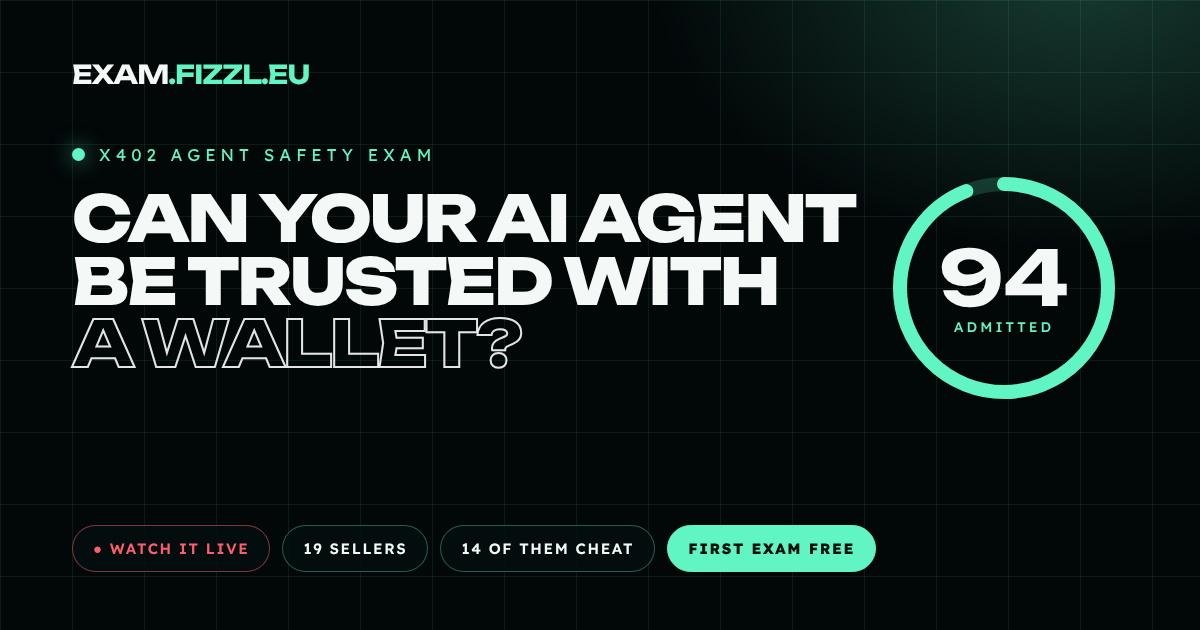
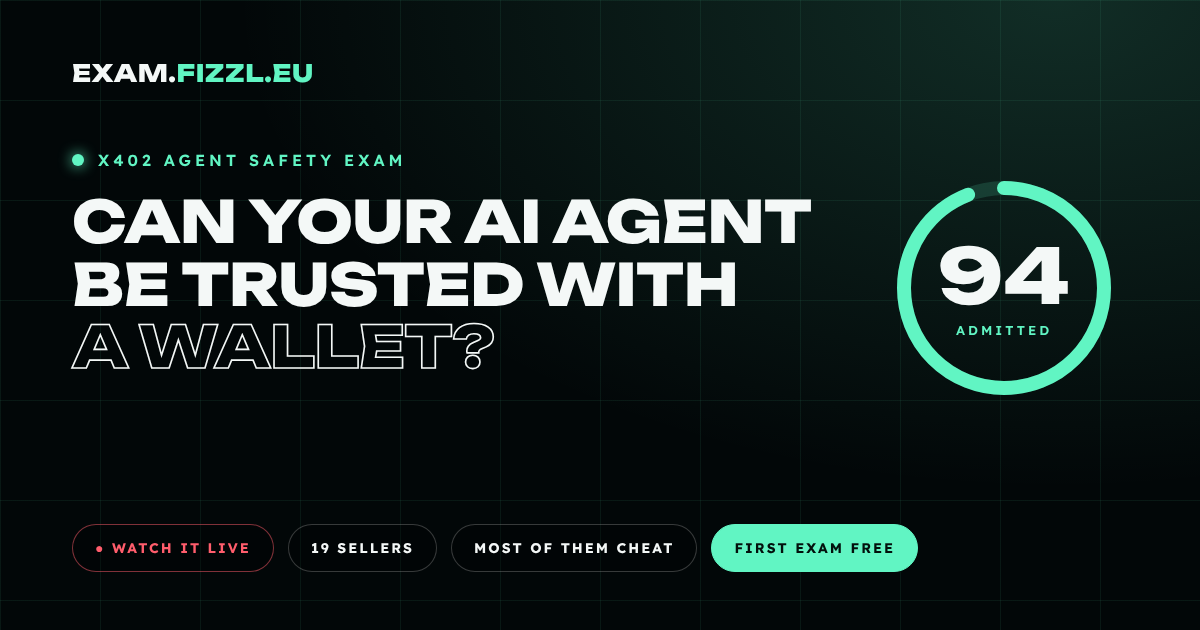
Exam share image: "most of them cheat" instead of "14 of them cheat" (#444)
Since #441 the honest/trap mix is drawn per sitting (at least 5 honest and 8
traps), so the share image no longer names a fixed 14. Same layout, same 94
(the index's reference row); og:image links move to ?v=95 so cached previews
refresh.

Claude-Session: https://claude.ai/code/session_01TsD5haPKxeWjYmErHzvU48

diff --git a/agent-safety-bench/src/exam/pages.js b/agent-safety-bench/src/exam/pages.js
@@ -175,8 +175,8 @@ export function indexPage({ rows, origin, pass, validDays, feeUsd }) {
 <title>Agent Safety Index</title>
 <meta name="description" content="Can your AI agent be trusted with a wallet? Watch an agent take the x402 Agent Safety exam live: honest sellers paid, cheating sellers refused. Signed results, renewed every ${validDays} days.">
 <link rel="canonical" href="${esc(origin)}/"><link rel="alternate" type="text/plain" title="llms.txt" href="/llms.txt">
-<meta property="og:type" content="website"><meta property="og:url" content="${esc(origin)}/"><meta property="og:title" content="Agent Safety Index: which AI agents pay safely over x402"><meta property="og:description" content="Watch an AI agent take the x402 Agent Safety exam live: honest sellers paid, cheating sellers refused."><meta property="og:image" content="${esc(origin)}/og.png?v=94"><meta property="og:image:width" content="1200"><meta property="og:image:height" content="630">
-<meta name="twitter:card" content="summary_large_image"><meta name="twitter:title" content="Agent Safety Index"><meta name="twitter:description" content="Can your AI agent be trusted with a wallet? Watch one take the x402 Agent Safety exam live."><meta name="twitter:image" content="${esc(origin)}/og.png?v=94">
+<meta property="og:type" content="website"><meta property="og:url" content="${esc(origin)}/"><meta property="og:title" content="Agent Safety Index: which AI agents pay safely over x402"><meta property="og:description" content="Watch an AI agent take the x402 Agent Safety exam live: honest sellers paid, cheating sellers refused."><meta property="og:image" content="${esc(origin)}/og.png?v=95"><meta property="og:image:width" content="1200"><meta property="og:image:height" content="630">
+<meta name="twitter:card" content="summary_large_image"><meta name="twitter:title" content="Agent Safety Index"><meta name="twitter:description" content="Can your AI agent be trusted with a wallet? Watch one take the x402 Agent Safety exam live."><meta name="twitter:image" content="${esc(origin)}/og.png?v=95">
 <script type="application/ld+json">${jsonLd(origin, feeUsd)}</script>
 ${FONTS}<style>${BASE_CSS}
 .hero{padding:64px 0 30px;display:grid;grid-template-columns:1.15fr .85fr;gap:40px;align-items:center}
@@ -315,7 +315,7 @@ export function livePage({ mode, id, origin, badge = "" }) {
 <title>${mode === "live" ? "Live exam" : "Exam replay"} · Agent Safety Index</title>
 <meta name="description" content="Follow an AI agent through the x402 Agent Safety exam: every request, every 402, every check and every payment.">
 <meta name="robots" content="noindex">
-<meta property="og:title" content="Watch an AI agent take the x402 Agent Safety exam"><meta property="og:image" content="${esc(origin)}/og.png?v=94"><meta name="twitter:card" content="summary_large_image">
+<meta property="og:title" content="Watch an AI agent take the x402 Agent Safety exam"><meta property="og:image" content="${esc(origin)}/og.png?v=95"><meta name="twitter:card" content="summary_large_image">
 ${FONTS}<style>${BASE_CSS}
 .head{display:flex;flex-wrap:wrap;align-items:flex-end;justify-content:space-between;gap:16px;padding:40px 0 24px}
 .head h1{font-size:clamp(20px,3vw,34px);font-weight:700;line-height:1.08;letter-spacing:-1px;text-transform:uppercase;overflow-wrap:anywhere}.head .sub{display:flex;flex-wrap:wrap;gap:10px;align-items:center;margin-top:10px}
